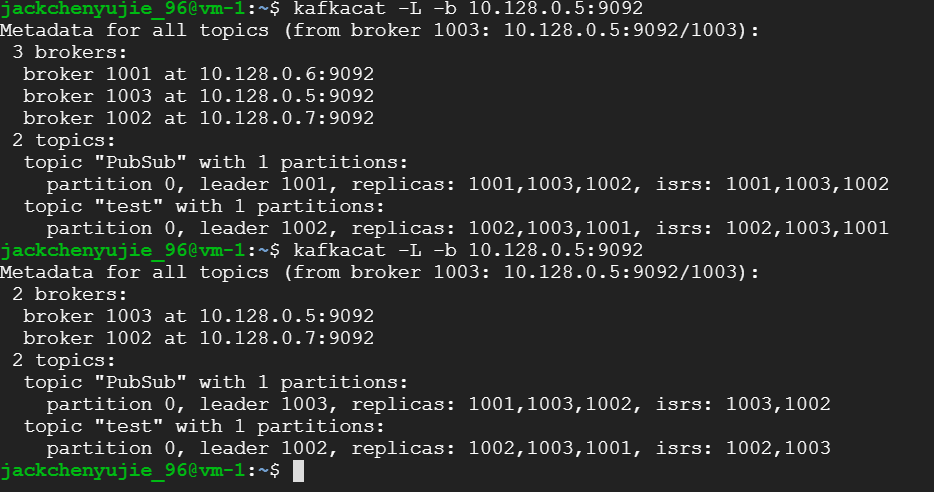
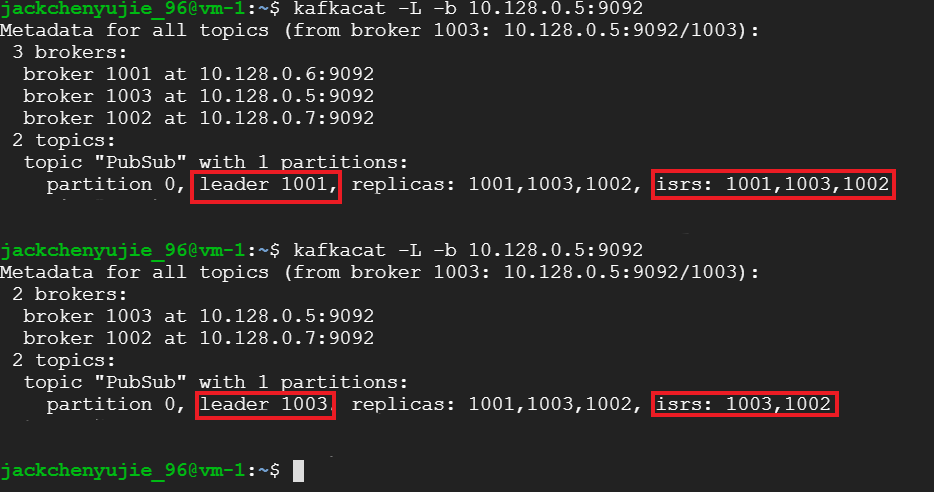
Updated typos

diff --git a/README.md b/README.md
@@ -14,7 +14,9 @@ To create a **3-node Apache Kafka cluster** using Docker that demonstrates Pub-S
 
 Set up 3 Kafka nodes and Zookeeper nodes to be deployed in **3 different servers**. Each server will run a single Kafka and Zookeeper node. We can create 3 servers using any of the Cloud Computing Service provider such as Microsoft Azure.
 
-In my example, a total of 3 Ubuntu VMs are set up using *__Google Cloud Platform__*. We can then `ssh` into the VM by clicking SSH which will give a command terminal of the VM instance. The internal IP address can be found in the ***VM instances*** page. 
+In my example, a total of 3 Ubuntu VMs are set up using *__Google Cloud Platform__*. We can then `ssh` into the VM by clicking SSH which will give a command terminal of the VM instance. The internal IP address can be found in the ***VM instances*** page as shown in the screenshot below.
+
+![VM Instances](./screenshot/vm.png)
 
 Below are the (internal) IP addresses for my example:
 
@@ -37,15 +39,20 @@ Once you are in the command-line of the VM, we can get the packages that we need
 
 We need to first install `docker`, then install `docker-compose` which is used to set up containers. `kafkacat` is a command line client for interaction with `kafka`. 
 
-Do this for all 3 VMs.
+**Do this for all 3 VMs.**
 
 
 
 ## Setting up Kafka and Zookeeper nodes in VMs
 
-1. First fork and clone this repo or just the `docker-compose.yml` file into your local machine. 
+1. First fork and clone this repo or just download the `docker-compose.yml` file onto your local machine. 
+
 2. Replace the fields marked within `{}` with the appropriate VM's IP Addresses (Internal IP Address). An example is shown in `docker-compose_exampl.yml`
-3. Upload this file to all of the three VM instances by clicking the **settings button on the top right corner of the CLI > Upload file**
+
+3. Upload this file to all of the three VM instances by clicking the **settings button on the top right corner of the CLI > Upload file** as shown in the screenshot below
+
+   ![Upload file to VM](./screenshot/upload.png)
+
 4. Start the Zookeeper and Kafka node using the `docker-compose.yml` file that was copied into the VMs using the following commands in this order:
 
 ```c
@@ -53,13 +60,13 @@ Do this for all 3 VMs.
 sudo docker-compose up -d zookeeper1 kafka1
 
 //Server 2
-sudop docker-compose up -d zookeeper2 kafka2
+sudo docker-compose up -d zookeeper2 kafka2
 
 //Server-3
 sudo docker-compose up -d zookeeper3 kafka3
 ```
 
-	6. After setting up the Zookeeper and Kafka nodes in each of the VMs, we can now demonstrate the Pub-Sub messaging system using Apache Kafka
+5. After setting up the Zookeeper and Kafka nodes in each of the VMs, we can now demonstrate the Pub-Sub messaging system using Apache Kafka
 
 
 
@@ -67,16 +74,16 @@ sudo docker-compose up -d zookeeper3 kafka3
 
 After setting up the Zookeeper and Kafka nodes in all 3 servers. We can now create a topic for the Pub-Sub messaging
 
-1. Create the topic. Set `replication-factor`to more than 1 for the fail-safe mechanism to work so that when the master node fails, another node in the cluster can take over. `VM_IPAddress`can be any of the 3 VM's IP address. We use the internal IP addresses of the VMs which can be found on the ***VM instances*** homepage.
+1. Create the topic. Set `replication-factor`to more than 1 for the fail-safe mechanism to work so that when the master node fails, another node in the cluster can take over. The `replication-factor ` defines the number of copies of a topic in a Kafka cluster. `{VM_IPAddress}`can be any of the 3 VM's IP address. We use the internal IP addresses of the VMs which can be found on the ***VM instances*** homepage as shown earlier in [Servers Setup](#servers-setup).
 
    ```
-   docker run --rm ches/kafka kafka-topics.sh --create --topic {topic_title} --replication-factor 3 --partitions 1 --zookeeper {VM_IPAddress}
+   sudo docker run --rm ches/kafka kafka-topics.sh --create --topic {topic_title} --replication-factor 3 --partitions 1 --zookeeper {VM_IPAddress}
    ```
 
    For my example, I created `PubSub` topic using my first VM's IP address as follows:
 
    ```
-   docker run --rm ches/kafka kafka-topics.sh --create --topic PubSub --replication-factor 3 --partitions 1 --zookeeper 10.128.0.5
+   sudo docker run --rm ches/kafka kafka-topics.sh --create --topic PubSub --replication-factor 3 --partitions 1 --zookeeper 10.128.0.5
    ```
 
    
@@ -85,45 +92,44 @@ After setting up the Zookeeper and Kafka nodes in all 3 servers. We can now crea
 
    We can also check to see if the topic has been successfully created using the command below, where `VM_IPAddress` is the IP Address that used above.
 
-   ```
+   ````
    kafkacat -L -b {VM_IPAddress}:9092
+   ````
+   
+     For my example, I used:
+   
    ```
-
-
-   For my example, I used:
-
-   ````
    kafkacat -L -b 10.128.0.5:9092
-   ````
+   ```
 
    
 
 3. We can start sending messages by creating at least 1 consumer and 1 publisher. Use the other 2 VMs to do this. (one for publisher, one for consumer)
 
-   ```C
+   ````c
    // Create publisher
    kafkacat -P -b {VM_IPAddress}:9092 -t {topic_title_created}
    
    // Create Consumer
    kafkacat -C -b {VM_IPAddress}:9092 -t {topic_title_created}
+   ````
+   
+     For my example, I used:
+   
+   ```C
+   // Create publisher for VM
+   kafkacat -P -b 10.128.0.6:9092 -t PubSub
+      
+   // Create Consumer
+   kafkacat -C -b 10.128.0.7:9092 -t PubSub
    ```
 
 
-   For my example, I used:
-
-   ````C
-   // Create publisher for VM
-   kafkacat -P -b 10.128.0.6:9092 -t PubSub
-   
-   // Create Consumer
-   kafkacat -C -b 10.128.0.7:9092 -t PubSub
-   ````
-
-   
+ 
 
 4. The publisher can type messages in the publisher terminal and see it appear on the consumer's terminal as shown in the screenshot below.
 
-   We can see that the left VM (***publisher***) takes in user input and publish them to Kafka.  The right VM (***consumer***) takes the messages from the topic and output them into the command line. 
+   We can see that the left VM (***publisher***) takes in user input and publish them to Kafka.  The right VM (***consumer***) takes the messages from the topic and outputs them into the command line. 
 
    
 
@@ -133,13 +139,18 @@ After setting up the Zookeeper and Kafka nodes in all 3 servers. We can now crea
 
    ### Successful management of failure of master node in the cluster
 
-   For topics created with `replication-factor` of more than 1, when the leader node is down, one of the remaining kafka brokers will take over as the leader node. The order of taking over can be seen by `isrs` as shown in the screenshot below. 
-   To view this metadata, execute the command `kafkacat -L -b {VM_IPAddress}:9092`. 
-   To illustrate the taking over of leader node, we first have to stop the current leader node by executing `docker stop {container_name}` where `{container_name}` is the name of the container of the leader node.
-We then run the command `kafkacat -L -b {VM_IPAddress}:9092` again to show that one of the other nodes taking over the leader node.
+   For topics created with `replication-factor` of more than 1, when the leader node is down, one of the remaining kafka brokers will take over as the leader node. The order of taking over can be seen by `isrs` as shown in the last screenshot below. 
+   
+   To view this metadata, execute the command `kafkacat -L -b {VM_IPAddress}:9092` as before.
 
+To illustrate the taking over of leader node, we first have to stop the current leader node by executing `sudo docker stop {container_id}` where `{container_id}` is the **id of the** **kafka container** of the leader node/VM. (*Note: you can simply type a subset of the full `container_id` . An example of stopping a process using this method is shown below.*)
+   
+   ![Stop process](./screenshot/stopprocess.png)
+
+   We then run the command `kafkacat -L -b {VM_IPAddress}:9092` again to show that one of the other nodes has taken over as the leader node. (*Note that you can only use the IP addresses of the other VM(s) with running Kafka containers, hence you cannot use the IP address of the leader node you just terminated*)
+   
    As seen in the screenshot, the leader of `PubSub` topic was initially `broker 1001` which was the 2nd VM (`10.128.0.6:9092`) and when we stop the docker container in our 2nd VM, we can see that listing the topics again show that the leader is now `broker 1003` (`10.128.0.5:9092`) which is our 1st VM.
    
-
+   
    ![Failure_MN](./screenshot/failure.png)
 
